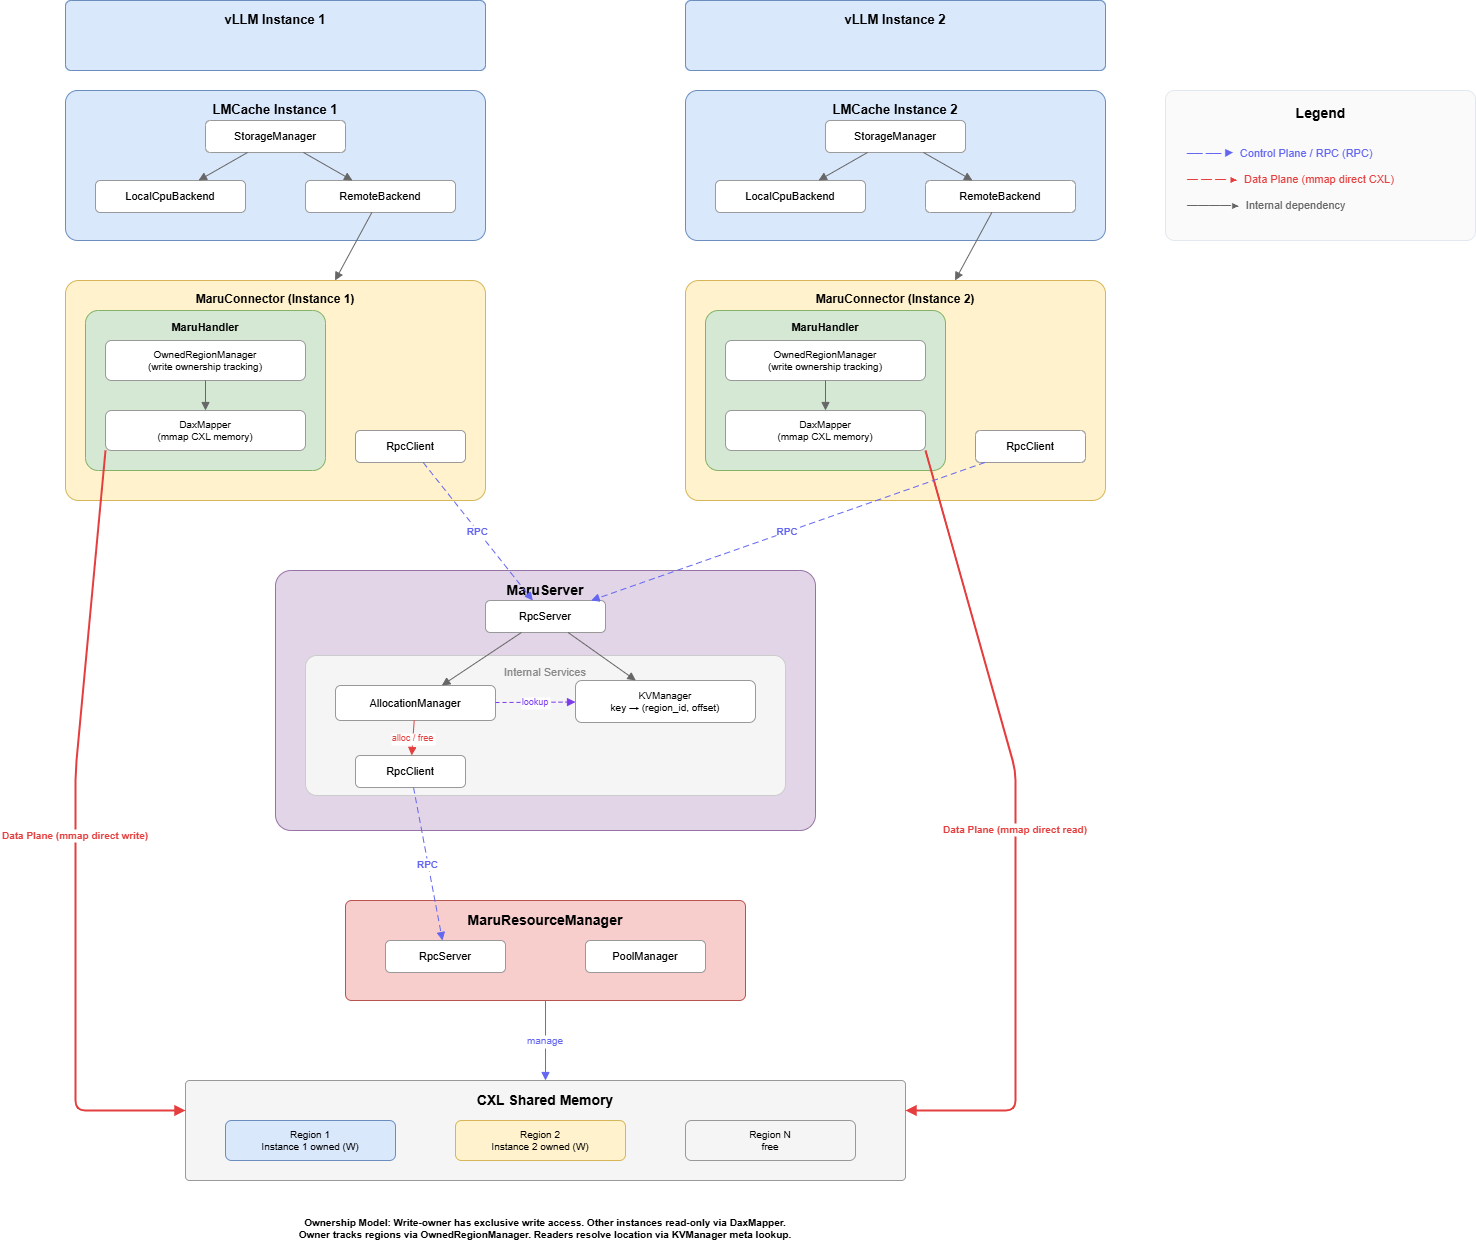
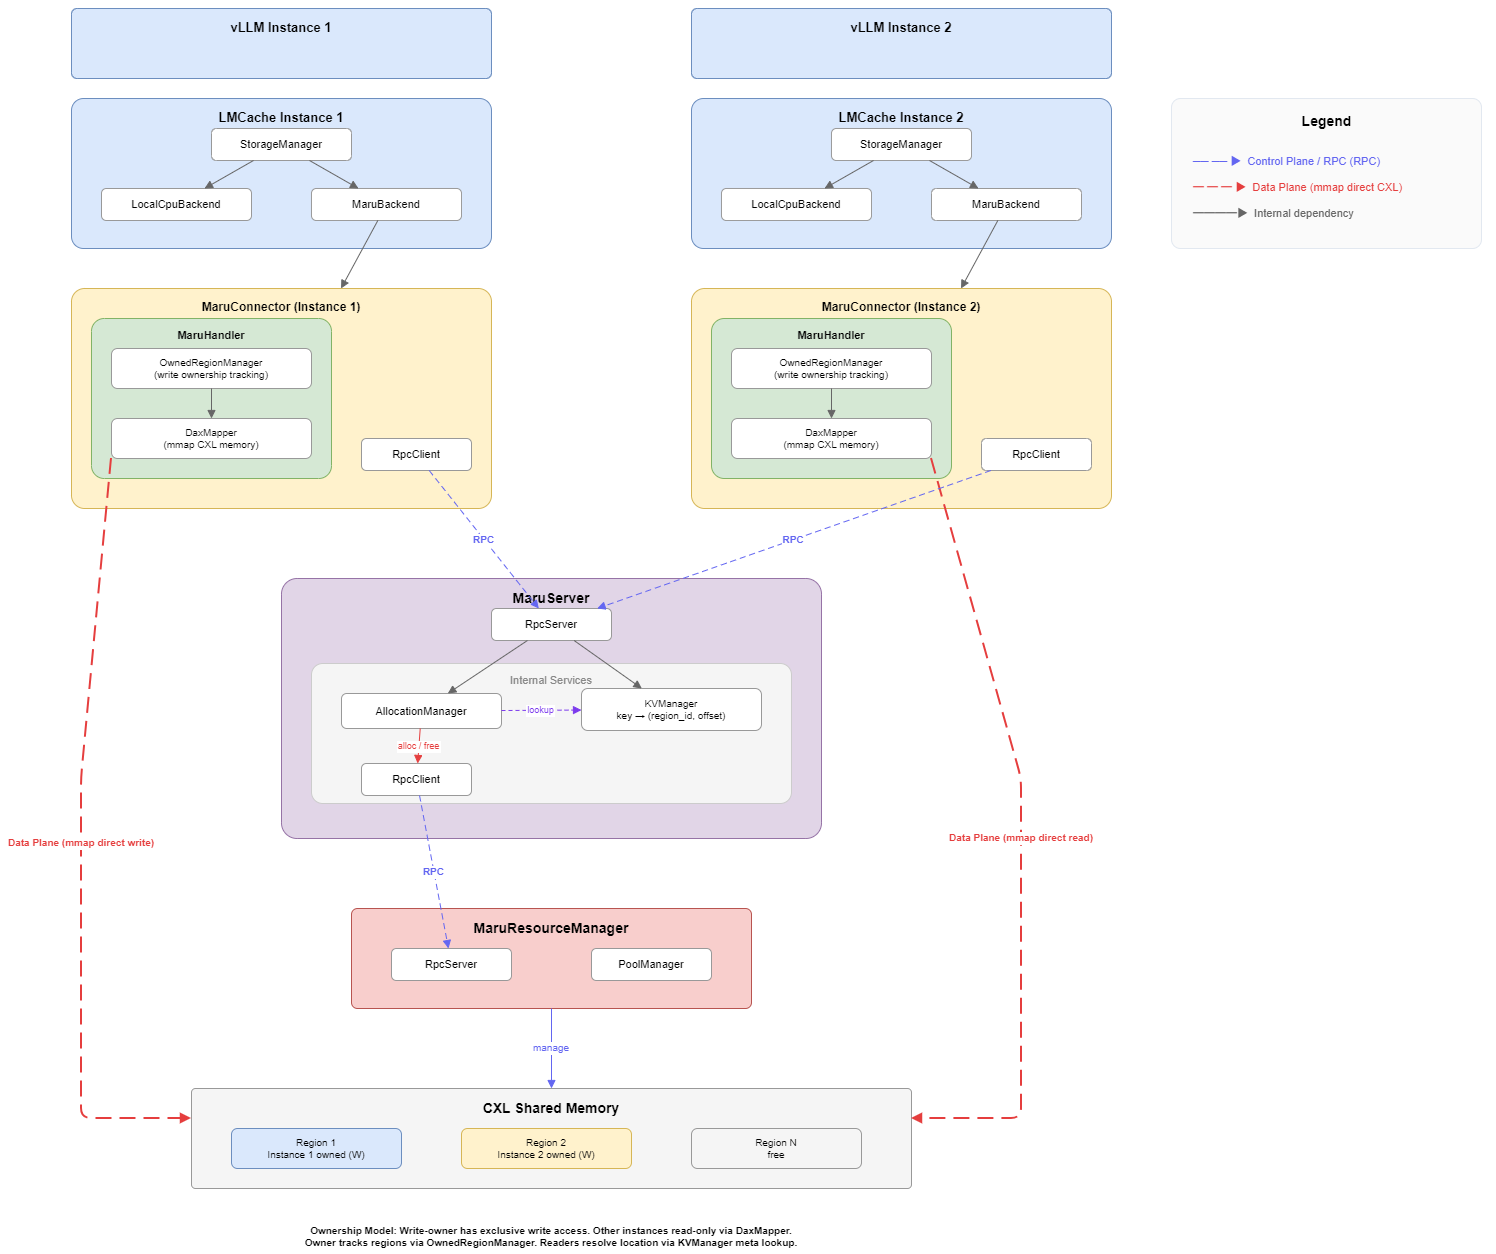
docs: update LMCache integration doc for MaruBackend architecture
Reflect the migration from RemoteConnector to AllocatorBackendInterface:
- Replace MaruConnector references with MaruBackend + CxlMemoryAdapter
- Update data path diagrams (store/retrieve/pin-unpin)
- Simplify config section (maru_path + maru_pool_size)
- Update p2p and pd example configs
- Update component architecture diagram

diff --git a/docs/source/integration/lmcache.md b/docs/source/integration/lmcache.md
@@ -18,30 +18,32 @@ The full stack from inference engine to shared memory:
 
 | Layer | Responsibility | Scope |
 |-------|---------------|-------|
-| **LMCache stack** | Inference engine → CacheEngine → StorageManager → RemoteBackend | LMCache (external) |
-| **MaruConnector** | Adapts LMCache's RemoteConnector to MaruHandler's API | Integration boundary |
+| **LMCache stack** | Inference engine → CacheEngine → StorageManager → MaruBackend | LMCache (external) |
+| **MaruBackend** | LMCache `AllocatorBackendInterface` — allocates directly on CXL, async store, sync get | Integration boundary |
+| **CxlMemoryAdapter** | LMCache `MemoryAllocatorInterface` — translates Maru pages to `TensorMemoryObj` pool | Integration boundary |
 | **MaruHandler** | Client-side KV operations, memory mapping, connection management | Maru client |
 | **MaruServer** | Central metadata store, memory allocation coordinator | Maru server |
 
-The **integration boundary** sits at MaruConnector. Everything above is LMCache;
-everything below is Maru. MaruConnector is the only component that imports from
-both projects.
+The **integration boundary** sits at MaruBackend + CxlMemoryAdapter. Everything above is LMCache;
+everything below is Maru. These two classes are the only components that import from both projects.
 
-## Connector Design
+## Backend Design
 
-LMCache defines a `RemoteConnector` interface that all remote storage backends
-must implement (`exists`, `get`, `put`, `close`, and batch variants). MaruConnector
-implements this interface by delegating to MaruHandler.
+### Two-layer integration
 
-**Why the connector pattern:** LMCache's RemoteBackend is designed for pluggable
-storage. The same StorageManager can use Redis, S3, Mooncake, or Maru without
-any change to the cache engine logic. MaruConnector slots in as one such plugin.
+```
+MaruBackend (AllocatorBackendInterface)
+  ├── CxlMemoryAdapter (MemoryAllocatorInterface)
+  │     ├── _pool: {region_id: [TensorMemoryObj per page]}
+  │     └── address encoding: (rid << 32) | pid
+  └── MaruHandler (Maru client)
+        ├── RpcClient → MaruServer
+        ├── DaxMapper (mmap management)
+        └── OwnedRegionManager (page allocation)
+```
 
-The key translation between the two APIs involves:
-
-- **Key conversion** — LMCache uses structured `CacheEngineKey` objects; MaruHandler uses string keys (`CacheEngineKey.to_string()`).
-- **Zero-copy bridging** — MaruHandler returns `MemoryInfo` (a memoryview wrapper) which the connector wraps as LMCache's `MemoryObj` without copying data.
-- **Batch optimization** — The connector maps LMCache's batch operations to MaruHandler's batch RPC calls, reducing round-trip overhead.
+**MaruHandler** manages CXL memory (regions, pages, mmap). **CxlMemoryAdapter** translates
+pages into LMCache's `TensorMemoryObj` format.
 
 ## Data Path
 
@@ -53,21 +55,23 @@ When the inference engine produces new KV cache data:
 sequenceDiagram
     participant IE as Inference Engine
     participant CE as CacheEngine
-    participant MC as MaruConnector
+    participant MB as MaruBackend
     participant MH as MaruHandler
     participant MS as MaruServer
     participant CXL as CXL Memory
 
     IE->>CE: KV tensors (GPU)
-    CE->>MC: put(key, MemoryObj)
-    MC->>MH: alloc(size)
-    MH-->>MC: handle (page in CXL region)
-    MC->>CXL: write data via handle buffer (zero-copy)
-    MC->>MH: store(key, handle)
+    CE->>MB: allocate(size)
+    MB->>MH: alloc(size)
+    MH-->>MB: handle (page in CXL region)
+    MB-->>CE: MemoryObj (CXL-backed)
+    CE->>CXL: GPU → CXL direct copy (only data copy)
+    CE->>MB: put(key, MemoryObj)
+    MB->>MH: store(key, handle)
     MH->>MS: register_kv(key, region_id, offset, length)
     MS-->>MH: success
-    MH-->>MC: True
-    MC-->>CE: done
+    MH-->>MB: True
+    MB-->>CE: done
 ```
 
 ### Retrieve Path (read)
@@ -78,20 +82,19 @@ When the inference engine needs cached KV data:
 sequenceDiagram
     participant IE as Inference Engine
     participant CE as CacheEngine
-    participant MC as MaruConnector
+    participant MB as MaruBackend
     participant MH as MaruHandler
     participant MS as MaruServer
     participant CXL as CXL Memory
 
     IE->>CE: Request KV for prompt prefix
-    CE->>MC: get(key)
-    MC->>MH: retrieve(key)
+    CE->>MB: get(key)
+    MB->>MH: retrieve(key)
     MH->>MS: lookup_kv(key)
     MS-->>MH: region_id, offset, length
     MH->>CXL: Map shared region (if not already mapped)
-    MH-->>MC: MemoryInfo (zero-copy memoryview)
-    MC->>MC: Wrap as MemoryObj (zero-copy)
-    MC-->>CE: MemoryObj
+    MH-->>MB: MemoryInfo (zero-copy memoryview)
+    MB-->>CE: MemoryObj (points to CXL mmap, zero-copy)
     CE-->>IE: KV tensors
 ```
 
@@ -101,59 +104,43 @@ accessed directly from CXL shared memory through memory-mapped regions.
 
 ## Configuration
 
-Maru is loaded as an LMCache [remote storage plugin](https://docs.lmcache.ai/developer_guide/extending_lmcache/remote_storage_plugins.html) (requires LMCache >= v0.3.14). Configuration is done via the LMCache YAML config file.
+Maru is configured as a native LMCache storage backend via the `maru_path` and `maru_pool_size`
+config fields. No plugin registration is needed.
 
 ```yaml
 chunk_size: 256
-local_cpu: True
-max_local_cpu_size: 5
-enable_async_loading: True
+local_cpu: False
+max_local_cpu_size: 0
+save_unfull_chunk: True
 
-# Disable P2P for Maru shared storage mode
-enable_p2p: False
-enable_controller: False
-
-# Maru backend — format: maru://<host>:<port>[?pool_size=&pool_id=&...]
-remote_url: "maru://localhost:5555"
-remote_serde: "naive"
-remote_storage_plugins: ["maru"]
+# Maru backend
+maru_path: "tcp://localhost:5555"
+maru_pool_size: 4
 
 extra_config:
-  remote_storage_plugin.maru.module_path: maru_lmcache.adapter
-  remote_storage_plugin.maru.class_name: MaruConnectorAdapter
-  maru_pool_size: "4G"              # CXL memory pool size ("1G", "500M", etc.)
-  # maru_pool_id: 1                 # Pin to specific DAX pool (default: any)
-  # maru_pool_id: "0,1"             # Multi-pool fallback (try pool 0, then 1)
-  save_chunk_meta: False
   lookup_backoff_time: 0.001
   # maru_instance_id: "my-id"       # Unique client ID (default: auto UUID)
-  # maru_operation_timeout: 10.0    # Per-operation timeout in seconds
-  # maru_timeout_ms: 2000           # ZMQ socket timeout (ms)
+  # maru_timeout_ms: 5000           # ZMQ socket timeout (ms)
   # maru_use_async_rpc: true        # Async DEALER-ROUTER RPC
   # maru_max_inflight: 64           # Max in-flight async requests
+  # maru_eager_map: true            # Pre-map shared regions on connect
 ```
 
-### Plugin settings
+### MaruBackend settings
 
-| Field | Description |
-| --- | --- |
-| `remote_storage_plugins: ["maru"]` | Registers Maru as a plugin backend |
-| `remote_storage_plugin.maru.module_path` | Python module containing the adapter class |
-| `remote_storage_plugin.maru.class_name` | Adapter class name (`MaruConnectorAdapter`) |
+| Field | Default | Description |
+| --- | --- | --- |
+| `maru_path` | (required) | MaruServer address. Format: `tcp://<host>:<port>` |
+| `maru_pool_size` | `4` | CXL memory pool size in GB |
 
 ### Maru extra_config parameters
 
 | Parameter | Default | Description |
 | --- | --- | --- |
-| `maru_pool_size` | `"1G"` | CXL memory pool size. Supports human-readable strings (`"4G"`, `"500M"`) or integer bytes |
-| `maru_pool_id` | `None` (any pool) | Pin allocations to specific DAX device pool(s). Single int (`1`) or comma-separated (`"0,1"`) for ordered fallback. Can also be set via URL query: `maru://host:port?pool_id=1` |
 | `maru_instance_id` | auto-generated UUID | Unique client instance identifier |
-| `maru_operation_timeout` | `10.0` | Timeout in seconds for individual KV operations |
-| `maru_timeout_ms` | `2000` | ZMQ socket timeout in milliseconds for RPC communication |
+| `maru_timeout_ms` | `5000` | ZMQ socket timeout in milliseconds for RPC communication |
 | `maru_use_async_rpc` | `true` | Use async DEALER-ROUTER pattern for higher throughput |
 | `maru_max_inflight` | `64` | Max concurrent in-flight async RPC requests |
-| `maru_server_url` | (from `remote_url`) | Override server URL. Normally not needed |
-| `maru_auto_connect` | `true` | Auto-connect to MaruServer on initialization |
 | `maru_eager_map` | `true` | Pre-map all shared regions on connect |
 
 For runnable examples, see

diff --git a/docs/source/getting_started/examples/lmcache/p2p.md b/docs/source/getting_started/examples/lmcache/p2p.md
@@ -19,26 +19,22 @@ Both instances share a single configuration file (`maru-config.yaml`):
 
 ```yaml
 chunk_size: 256
-local_cpu: True
-max_local_cpu_size: 5
+local_cpu: False
+max_local_cpu_size: 0
 enable_async_loading: True
 
 enable_p2p: False
 enable_controller: False
 
-remote_url: "maru://localhost:${MARU_SERVER_PORT}"
-remote_serde: "naive"
-remote_storage_plugins: ["maru"]
+# Maru backend
+maru_path: "tcp://localhost:${MARU_SERVER_PORT}"
+maru_pool_size: 4
 
 extra_config:
-  remote_storage_plugin.maru.module_path: maru_lmcache.adapter
-  remote_storage_plugin.maru.class_name: MaruConnectorAdapter
-  maru_pool_size: "4G"
-  save_chunk_meta: False
   lookup_backoff_time: 0.001
 ```
 
-Maru is loaded as an LMCache [remote storage plugin](https://docs.lmcache.ai/developer_guide/extending_lmcache/remote_storage_plugins.html). For details on each configuration field, see {doc}`../../../integration/lmcache`.
+Maru is loaded as an LMCache [storage backend](https://docs.lmcache.ai/kv_cache/storage_backends/index.html). For details on each configuration field, see {doc}`../../../integration/lmcache`.
 
 ## How to Run
 

diff --git a/docs/source/getting_started/examples/lmcache/pd.md b/docs/source/getting_started/examples/lmcache/pd.md
@@ -22,22 +22,18 @@ Both prefiller and decoder use the same configuration:
 ```yaml
 enable_pd: False
 chunk_size: 256
-remote_url: "maru://localhost:${MARU_SERVER_PORT}"
-remote_serde: "naive"
-remote_storage_plugins: ["maru"]
 local_cpu: False
-max_local_cpu_size: 100
 save_unfull_chunk: True
+# Maru backend
+maru_path: "tcp://localhost:${MARU_SERVER_PORT}"
+maru_pool_size: 4
 
 extra_config:
-  remote_storage_plugin.maru.module_path: maru_lmcache.adapter
-  remote_storage_plugin.maru.class_name: MaruConnectorAdapter
-  maru_pool_size: "4G"
   save_chunk_meta: False
   lookup_backoff_time: 0.001
 ```
 
-Maru is loaded as an LMCache [remote storage plugin](https://docs.lmcache.ai/developer_guide/extending_lmcache/remote_storage_plugins.html). For details on each configuration field, see {doc}`../../../integration/lmcache`.
+Maru is loaded as an LMCache [storage backend](https://docs.lmcache.ai/kv_cache/storage_backends/index.html). For details on each configuration field, see {doc}`../../../integration/lmcache`.
 
 ## How to Run
 
